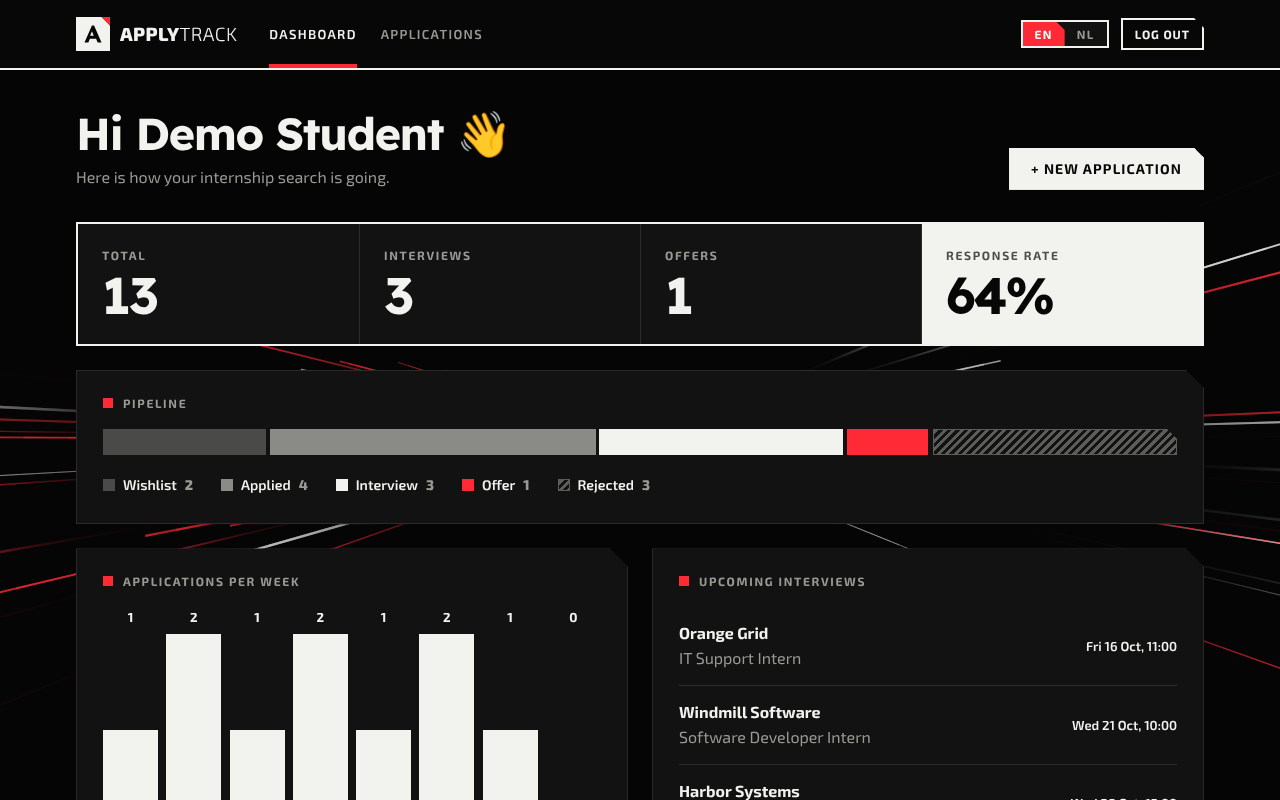
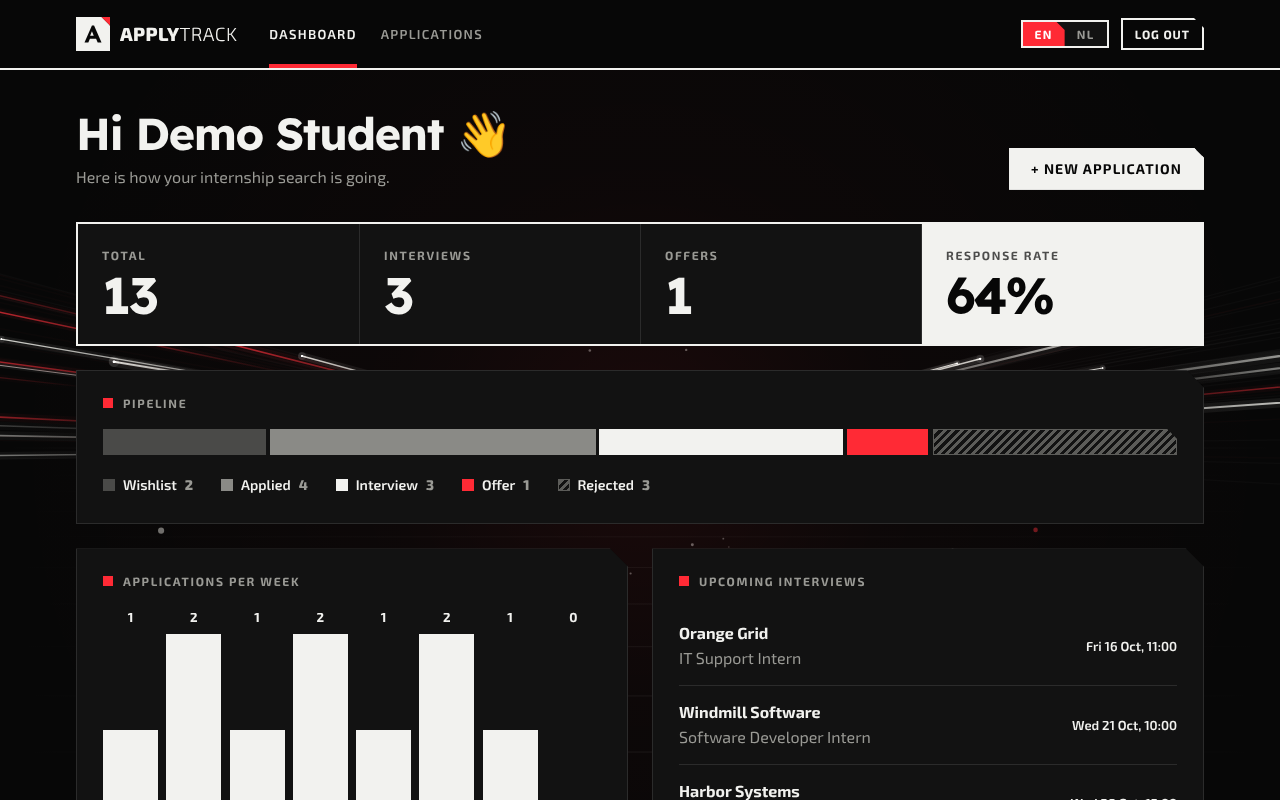
Make dark-mode background slower and richer: light rails, dust, floor, comets and mouse parallax

diff --git a/public/js/app.js b/public/js/app.js
@@ -75,102 +75,284 @@ document.querySelectorAll('[data-flash]').forEach((flash) => {
     setTimeout(() => flash.classList.add('is-hidden'), 4000);
 });
 
-// Animated "light speed" background: red and white streaks rushing out of a vanishing point.
-// Only drawn in dark mode; it pauses when the tab is hidden.
-const canvas = document.querySelector('[data-streaks]');
-if (canvas) {
+// Light rails: a slow, deep "light speed" scene drawn on a canvas.
+// Faint rails fan out of a vanishing point, light pulses glide along them,
+// dust drifts towards the viewer, a perspective floor rolls by, and now and
+// then a bright comet shoots past. The vanishing point leans towards the pointer.
+function createLightRails(canvas, options) {
     const ctx = canvas.getContext('2d');
-    const dark = window.matchMedia('(prefers-color-scheme: dark)');
-    const streaks = [];
-    let width = 0;
-    let height = 0;
-    let frame = null;
+    const opts = Object.assign({ speed: 0.6, rails: 56, glow: 0.6 }, options);
+    const RED = '255, 42, 53';
+    const WHITE = '236, 236, 230';
+    let w = 0;
+    let h = 0;
+    let time = 0;
+    let floorOffset = 0;
+    let nextComet = 240;
+    const vp = { x: 0, y: 0 };
+    const lean = { x: 0, y: 0, tx: 0, ty: 0 };
+    const rails = [];
+    const dust = [];
+    const comets = [];
 
-    const resize = () => {
-        const ratio = Math.min(window.devicePixelRatio || 1, 2);
-        width = window.innerWidth;
-        height = window.innerHeight;
-        canvas.width = width * ratio;
-        canvas.height = height * ratio;
-        ctx.setTransform(ratio, 0, 0, ratio, 0, 0);
-    };
+    const rand = (min, max) => min + Math.random() * (max - min);
 
-    // Each streak lives on a fixed angle and travels from the centre to the edge.
-    const spawn = (streak = {}) => {
-        const side = Math.random() < 0.5 ? -1 : 1;
-        streak.angle = (side < 0 ? Math.PI : 0) + (Math.random() - 0.5) * 1.5;
-        streak.depth = Math.random() * 0.2;
-        streak.speed = 0.004 + Math.random() * 0.01;
-        streak.length = 0.08 + Math.random() * 0.25;
-        streak.width = 0.5 + Math.random() * 2;
-        streak.red = side < 0 ? Math.random() < 0.8 : Math.random() < 0.25;
-        return streak;
-    };
-
-    for (let i = 0; i < 140; i++) {
-        const streak = spawn();
-        streak.depth = Math.random();
-        streaks.push(streak);
+    function buildRails() {
+        rails.length = 0;
+        for (let i = 0; i < opts.rails; i++) {
+            const left = i % 2 === 0;
+            // Most rails sit below the horizon, like a road seen from inside a car.
+            const spread = Math.pow(Math.random(), 0.7) * 0.62 - 0.12;
+            rails.push({
+                angle: left ? Math.PI + spread : -spread,
+                red: left ? Math.random() < 0.75 : Math.random() < 0.2,
+                width: rand(0.6, 2),
+                t: rand(0, 1.4),
+                speed: rand(0.6, 1.4),
+                length: rand(0.18, 0.45),
+            });
+        }
     }
 
-    const draw = () => {
-        ctx.fillStyle = 'rgba(7, 7, 7, 0.35)';
-        ctx.fillRect(0, 0, width, height);
-
-        const cx = width / 2;
-        const cy = height * 0.55;
-        const reach = Math.hypot(width, height) * 0.7;
-
-        for (const s of streaks) {
-            s.depth += s.speed * (0.4 + s.depth * 2.5);
-            if (s.depth > 1.2) spawn(s);
-
-            // Ease so streaks accelerate as they come closer
-            const head = Math.pow(s.depth, 2.2) * reach;
-            const tail = Math.pow(Math.max(s.depth - s.length, 0), 2.2) * reach;
-            const dx = Math.cos(s.angle);
-            const dy = Math.sin(s.angle) * 0.45;
-
-            const gradient = ctx.createLinearGradient(cx + dx * tail, cy + dy * tail, cx + dx * head, cy + dy * head);
-            const colour = s.red ? '255, 42, 53' : '235, 235, 230';
-            gradient.addColorStop(0, `rgba(${colour}, 0)`);
-            gradient.addColorStop(1, `rgba(${colour}, ${Math.min(s.depth, 0.9)})`);
-
-            ctx.strokeStyle = gradient;
-            ctx.lineWidth = s.width * (0.3 + s.depth);
-            ctx.beginPath();
-            ctx.moveTo(cx + dx * tail, cy + dy * tail);
-            ctx.lineTo(cx + dx * head, cy + dy * head);
-            ctx.stroke();
+    function buildDust() {
+        dust.length = 0;
+        for (let i = 0; i < 70; i++) {
+            dust.push({ x: rand(-1, 1), y: rand(-0.6, 0.8), z: rand(0.05, 1), red: Math.random() < 0.3 });
         }
-    };
+    }
 
-    const loop = () => {
-        draw();
+    function resize(width, height) {
+        const ratio = Math.min(window.devicePixelRatio || 1, 2);
+        w = width;
+        h = height;
+        canvas.width = w * ratio;
+        canvas.height = h * ratio;
+        ctx.setTransform(ratio, 0, 0, ratio, 0, 0);
+    }
+
+    function setOptions(next) {
+        const rebuild = next.rails !== undefined && next.rails !== opts.rails;
+        Object.assign(opts, next);
+        if (rebuild) buildRails();
+    }
+
+    // nx, ny in -1..1: where the pointer is relative to the centre.
+    function setPointer(nx, ny) {
+        lean.tx = nx;
+        lean.ty = ny;
+    }
+
+    // A gradient line. The glow is a wider, fainter pass underneath:
+    // much cheaper than canvas shadowBlur, so it stays smooth on laptops.
+    function stroke(x1, y1, x2, y2, colour, alphaTail, alphaHead, width, glow) {
+        const g = ctx.createLinearGradient(x1, y1, x2, y2);
+        g.addColorStop(0, `rgba(${colour}, ${alphaTail})`);
+        g.addColorStop(1, `rgba(${colour}, ${alphaHead})`);
+        ctx.strokeStyle = g;
+        ctx.beginPath();
+        ctx.moveTo(x1, y1);
+        ctx.lineTo(x2, y2);
+        if (glow > 0) {
+            ctx.globalAlpha = 0.18 * glow;
+            ctx.lineWidth = width * 5;
+            ctx.stroke();
+            ctx.globalAlpha = 1;
+        }
+        ctx.lineWidth = width;
+        ctx.stroke();
+    }
+
+    function dot(x, y, radius, colour, alpha, glow) {
+        if (glow > 0) {
+            ctx.fillStyle = `rgba(${colour}, ${alpha * 0.2 * glow})`;
+            ctx.beginPath();
+            ctx.arc(x, y, radius * 4, 0, Math.PI * 2);
+            ctx.fill();
+        }
+        ctx.fillStyle = `rgba(255, 255, 255, ${alpha})`;
+        ctx.beginPath();
+        ctx.arc(x, y, radius, 0, Math.PI * 2);
+        ctx.fill();
+    }
+
+    function drawBackdrop() {
+        ctx.globalCompositeOperation = 'source-over';
+        ctx.fillStyle = '#070707';
+        ctx.fillRect(0, 0, w, h);
+
+        // Breathing glow on the horizon
+        const breath = 0.85 + 0.15 * Math.sin(time * 0.012);
+        const haze = ctx.createRadialGradient(vp.x, vp.y, 0, vp.x, vp.y, w * 0.5);
+        haze.addColorStop(0, `rgba(${RED}, ${0.14 * opts.glow * breath})`);
+        haze.addColorStop(0.4, `rgba(${RED}, ${0.04 * opts.glow * breath})`);
+        haze.addColorStop(1, `rgba(${RED}, 0)`);
+        ctx.fillStyle = haze;
+        ctx.fillRect(0, 0, w, h);
+
+        // Horizon line, brightest in the middle
+        const line = ctx.createLinearGradient(0, 0, w, 0);
+        line.addColorStop(0, `rgba(${WHITE}, 0)`);
+        line.addColorStop(0.5, `rgba(${WHITE}, 0.18)`);
+        line.addColorStop(1, `rgba(${WHITE}, 0)`);
+        ctx.fillStyle = line;
+        ctx.fillRect(0, vp.y - 0.5, w, 1);
+    }
+
+    function drawFloor(dt) {
+        // Horizontal lines rolling towards the viewer give the floor depth.
+        floorOffset = (floorOffset + dt * opts.speed * 0.0025) % 1;
+        const count = 14;
+        for (let i = 0; i < count; i++) {
+            const z = (i + floorOffset) / count;
+            const y = vp.y + (h - vp.y) * Math.pow(z, 2.6);
+            const g = ctx.createLinearGradient(0, 0, w, 0);
+            const a = 0.07 * z;
+            g.addColorStop(0, `rgba(${WHITE}, 0)`);
+            g.addColorStop(0.5, `rgba(${WHITE}, ${a})`);
+            g.addColorStop(1, `rgba(${WHITE}, 0)`);
+            ctx.fillStyle = g;
+            ctx.fillRect(0, y, w, 1);
+        }
+    }
+
+    function drawDust(dt) {
+        const focal = w * 0.09;
+        for (const p of dust) {
+            p.z -= dt * opts.speed * 0.0016;
+            if (p.z <= 0.03) {
+                p.x = rand(-1, 1);
+                p.y = rand(-0.6, 0.8);
+                p.z = 1;
+            }
+            const sx = vp.x + (p.x / p.z) * focal;
+            const sy = vp.y + (p.y / p.z) * focal * 0.6;
+            if (sx < -20 || sx > w + 20 || sy < -20 || sy > h + 20) continue;
+            const size = Math.min(0.4 / p.z, 3.2);
+            const alpha = Math.min((1 - p.z) * 0.5, 0.45);
+            ctx.fillStyle = `rgba(${p.red ? RED : WHITE}, ${alpha})`;
+            ctx.beginPath();
+            ctx.arc(sx, sy, size, 0, Math.PI * 2);
+            ctx.fill();
+        }
+    }
+
+    function drawRails(dt, reach) {
+        for (const r of rails) {
+            const dx = Math.cos(r.angle);
+            const dy = Math.sin(r.angle) * 0.5;
+            const colour = r.red ? RED : WHITE;
+
+            // The rail itself: a faint fixed hairline.
+            ctx.strokeStyle = `rgba(${colour}, 0.035)`;
+            ctx.lineWidth = 0.6;
+            ctx.beginPath();
+            ctx.moveTo(vp.x, vp.y);
+            ctx.lineTo(vp.x + dx * reach, vp.y + dy * reach);
+            ctx.stroke();
+
+            // A pulse gliding outwards, speeding up gently with perspective.
+            r.t += opts.speed * 0.0011 * r.speed * dt * (0.5 + r.t);
+            if (r.t > 1.4) {
+                r.t = 0;
+                r.length = rand(0.18, 0.45);
+            }
+            const head = Math.pow(r.t, 1.8) * reach;
+            const tail = Math.pow(Math.max(r.t - r.length, 0), 1.8) * reach;
+            const fade = Math.min(r.t * 3, 1) * Math.min(Math.max((1.4 - r.t) * 2.5, 0), 1);
+            if (head - tail < 1) continue;
+
+            const hx = vp.x + dx * head;
+            const hy = vp.y + dy * head;
+            stroke(vp.x + dx * tail, vp.y + dy * tail, hx, hy, colour, 0, 0.75 * fade, r.width * (0.4 + r.t), opts.glow);
+
+            // White-hot head
+            dot(hx, hy, r.width * (0.3 + r.t * 0.6), colour, 0.7 * fade, opts.glow);
+        }
+    }
+
+    function drawComets(dt, reach) {
+        nextComet -= dt;
+        if (nextComet <= 0) {
+            const left = Math.random() < 0.5;
+            const spread = rand(-0.08, 0.45);
+            comets.push({ angle: left ? Math.PI + spread : -spread, red: Math.random() < 0.6, t: 0 });
+            nextComet = rand(360, 720) / Math.max(opts.speed, 0.2);
+        }
+        for (let i = comets.length - 1; i >= 0; i--) {
+            const c = comets[i];
+            c.t += opts.speed * 0.006 * dt * (0.4 + c.t);
+            if (c.t > 1.5) {
+                comets.splice(i, 1);
+                continue;
+            }
+            const dx = Math.cos(c.angle);
+            const dy = Math.sin(c.angle) * 0.5;
+            const head = Math.pow(c.t, 1.6) * reach;
+            const tail = Math.pow(Math.max(c.t - 0.6, 0), 1.6) * reach;
+            const fade = Math.min(c.t * 4, 1) * Math.min((1.5 - c.t) * 3, 1);
+            stroke(vp.x + dx * tail, vp.y + dy * tail, vp.x + dx * head, vp.y + dy * head,
+                c.red ? RED : WHITE, 0, fade, 1.5 + c.t * 3, opts.glow * 1.5);
+        }
+    }
+
+    function frame(dt) {
+        time += dt;
+        lean.x += (lean.tx - lean.x) * 0.03 * dt;
+        lean.y += (lean.ty - lean.y) * 0.03 * dt;
+        vp.x = w * 0.5 + lean.x * w * 0.04;
+        vp.y = h * 0.56 + lean.y * h * 0.035;
+        const reach = Math.hypot(w, h) * 0.65;
+
+        drawBackdrop();
+        drawFloor(dt);
+        ctx.globalCompositeOperation = 'lighter';
+        ctx.lineCap = 'round';
+        drawDust(dt);
+        drawRails(dt, reach);
+        drawComets(dt, reach);
+        ctx.globalCompositeOperation = 'source-over';
+    }
+
+    buildRails();
+    buildDust();
+
+    return { resize, frame, setPointer, setOptions };
+}
+
+// Animated background in dark mode.
+const canvas = document.querySelector('[data-streaks]');
+if (canvas) {
+    const dark = window.matchMedia('(prefers-color-scheme: dark)');
+    const scene = createLightRails(canvas);
+    let frame = null;
+    let last = 0;
+
+    const loop = (now) => {
+        const dt = Math.min((now - last) / 16.67, 3);
+        last = now;
+        scene.frame(dt);
         frame = requestAnimationFrame(loop);
     };
 
     const start = () => {
         cancelAnimationFrame(frame);
         canvas.hidden = !dark.matches;
-        if (!dark.matches) return;
+        if (!dark.matches || document.hidden) return;
 
-        resize();
-        ctx.fillStyle = '#070707';
-        ctx.fillRect(0, 0, width, height);
-
+        scene.resize(window.innerWidth, window.innerHeight);
         if (reducedMotion) {
-            for (let i = 0; i < 40; i++) draw();
-        } else {
-            loop();
+            for (let i = 0; i < 120; i++) scene.frame(1);
+            return;
         }
+        last = performance.now();
+        frame = requestAnimationFrame(loop);
     };
 
+    window.addEventListener('pointermove', (event) => {
+        scene.setPointer(event.clientX / window.innerWidth * 2 - 1, event.clientY / window.innerHeight * 2 - 1);
+    });
     window.addEventListener('resize', start);
     dark.addEventListener('change', start);
-    document.addEventListener('visibilitychange', () => {
-        if (document.hidden) cancelAnimationFrame(frame);
-        else start();
-    });
+    document.addEventListener('visibilitychange', start);
     start();
 }

diff --git a/README.md b/README.md
@@ -22,9 +22,11 @@ I built it because I am looking for an internship myself and a spreadsheet was n
 - **CSV export** of all your applications.
 - **English / Dutch** interface with an animated language toggle. A test makes sure no Dutch translation is missing.
 - **Authorization**: users can only see and change their own applications (Laravel policies).
-- **Dark mode** with an animated light-streak background (canvas), following the system setting, a responsive layout and support for reduced motion.
+- **Dark mode** with an animated "light rails" background on canvas: slow light pulses, drifting dust, a rolling perspective floor, the odd comet, and a vanishing point that follows the mouse. It pauses in background tabs and respects reduced motion, a responsive layout and support for reduced motion.
 
 ![Language toggle](docs/screenshots/language-toggle.gif)
+
+![Animated dark-mode background](docs/screenshots/background.gif)
 
 ## Tech stack
 
